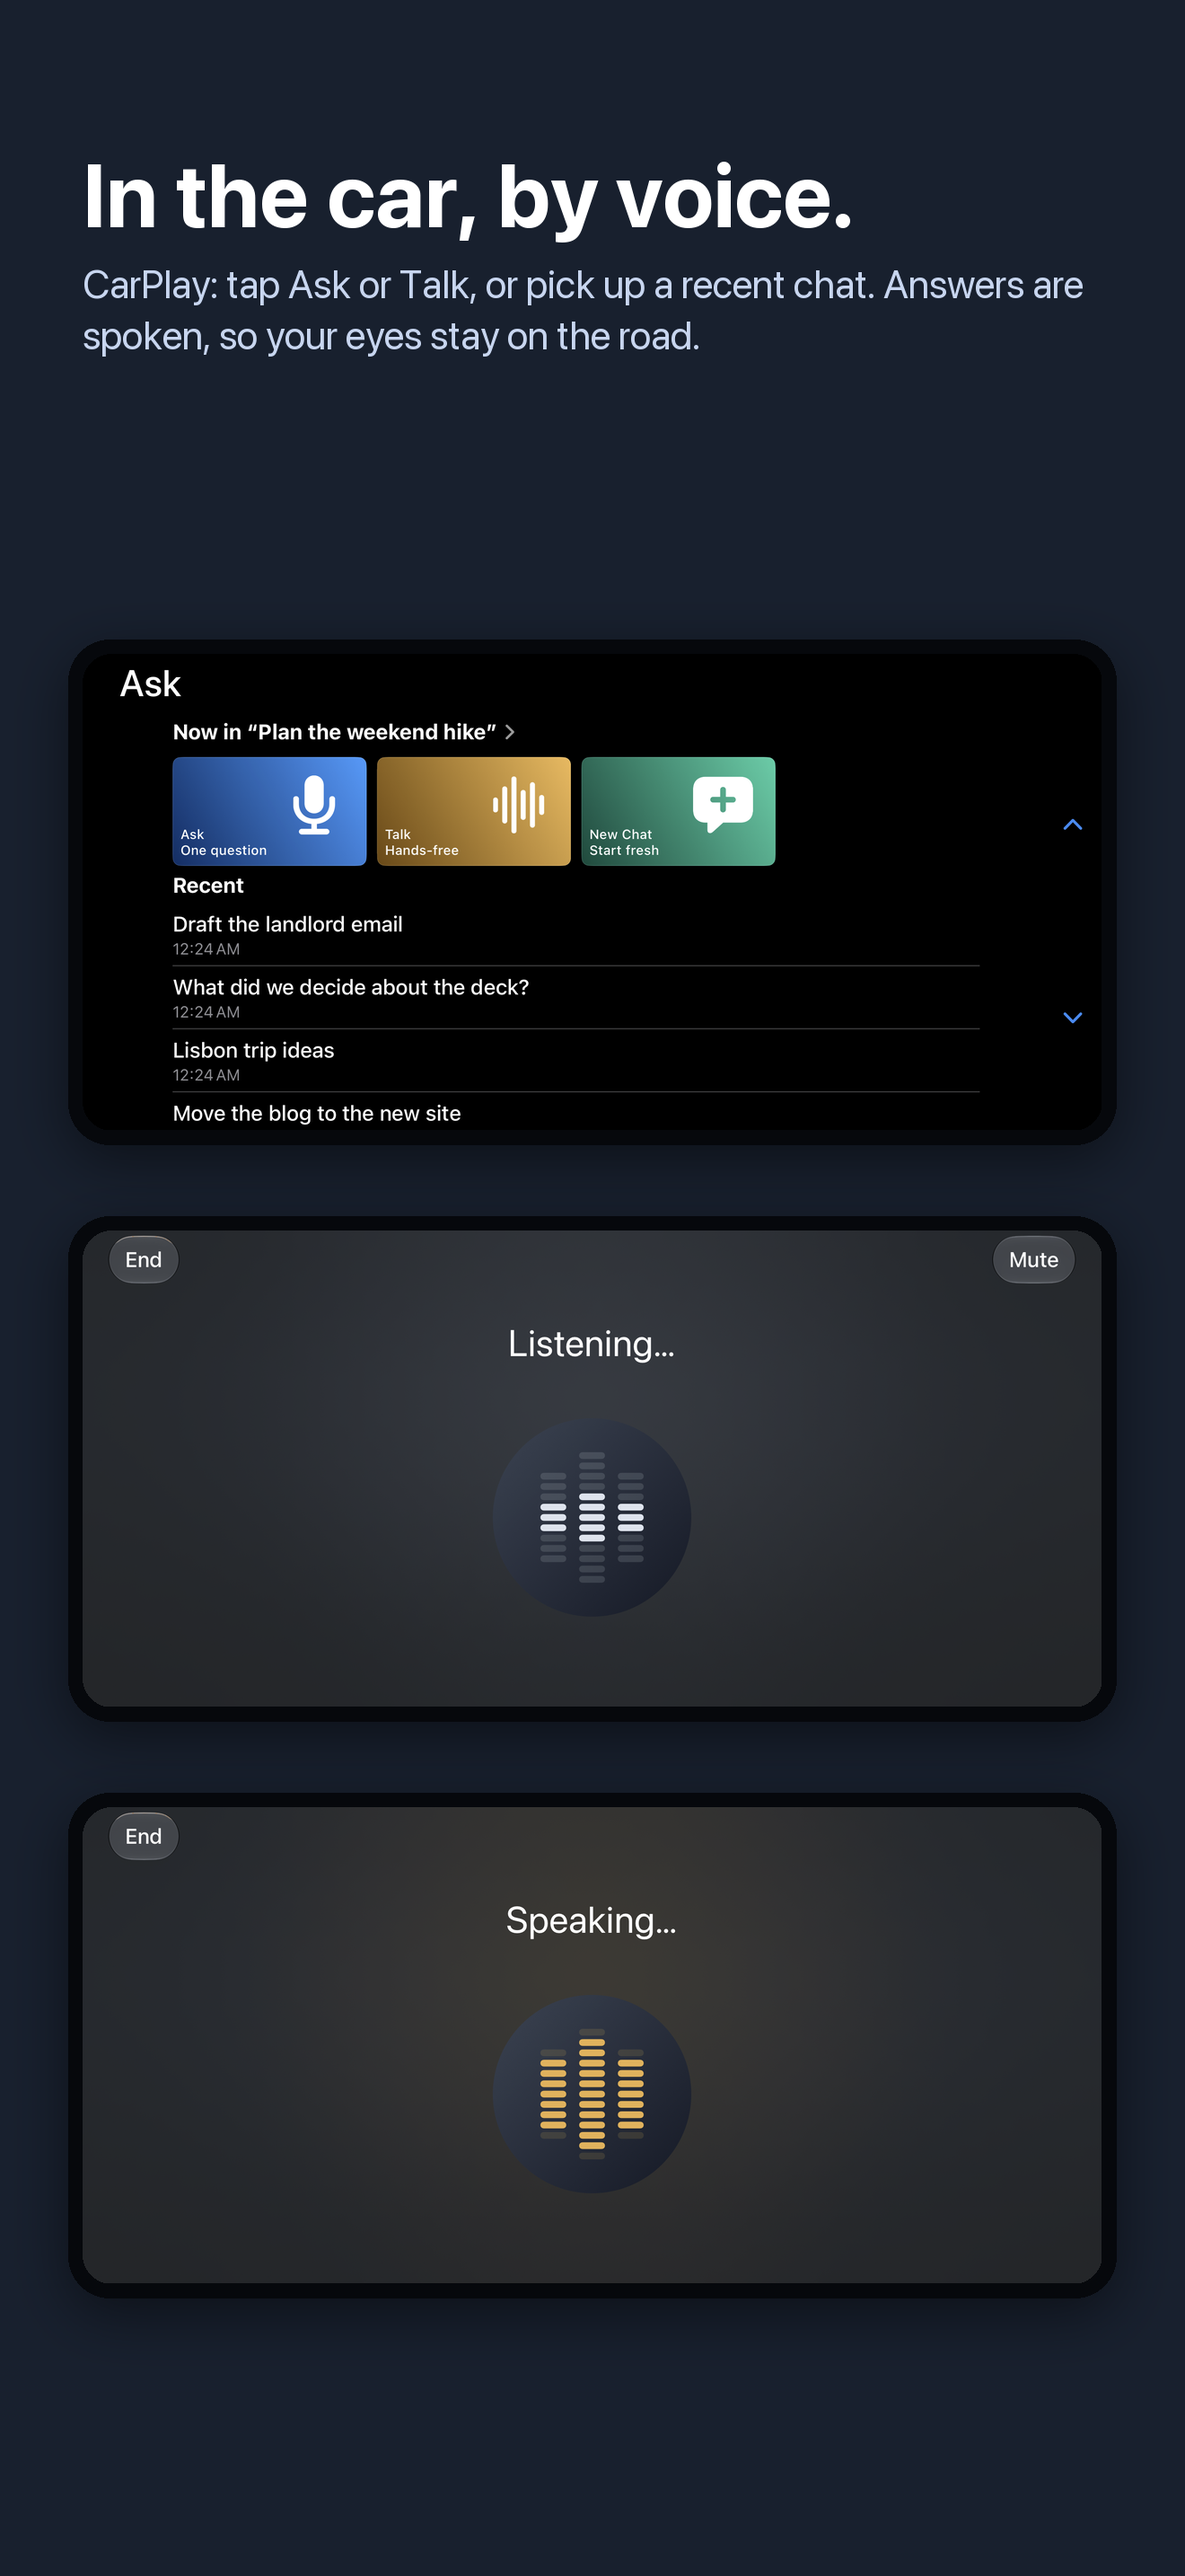
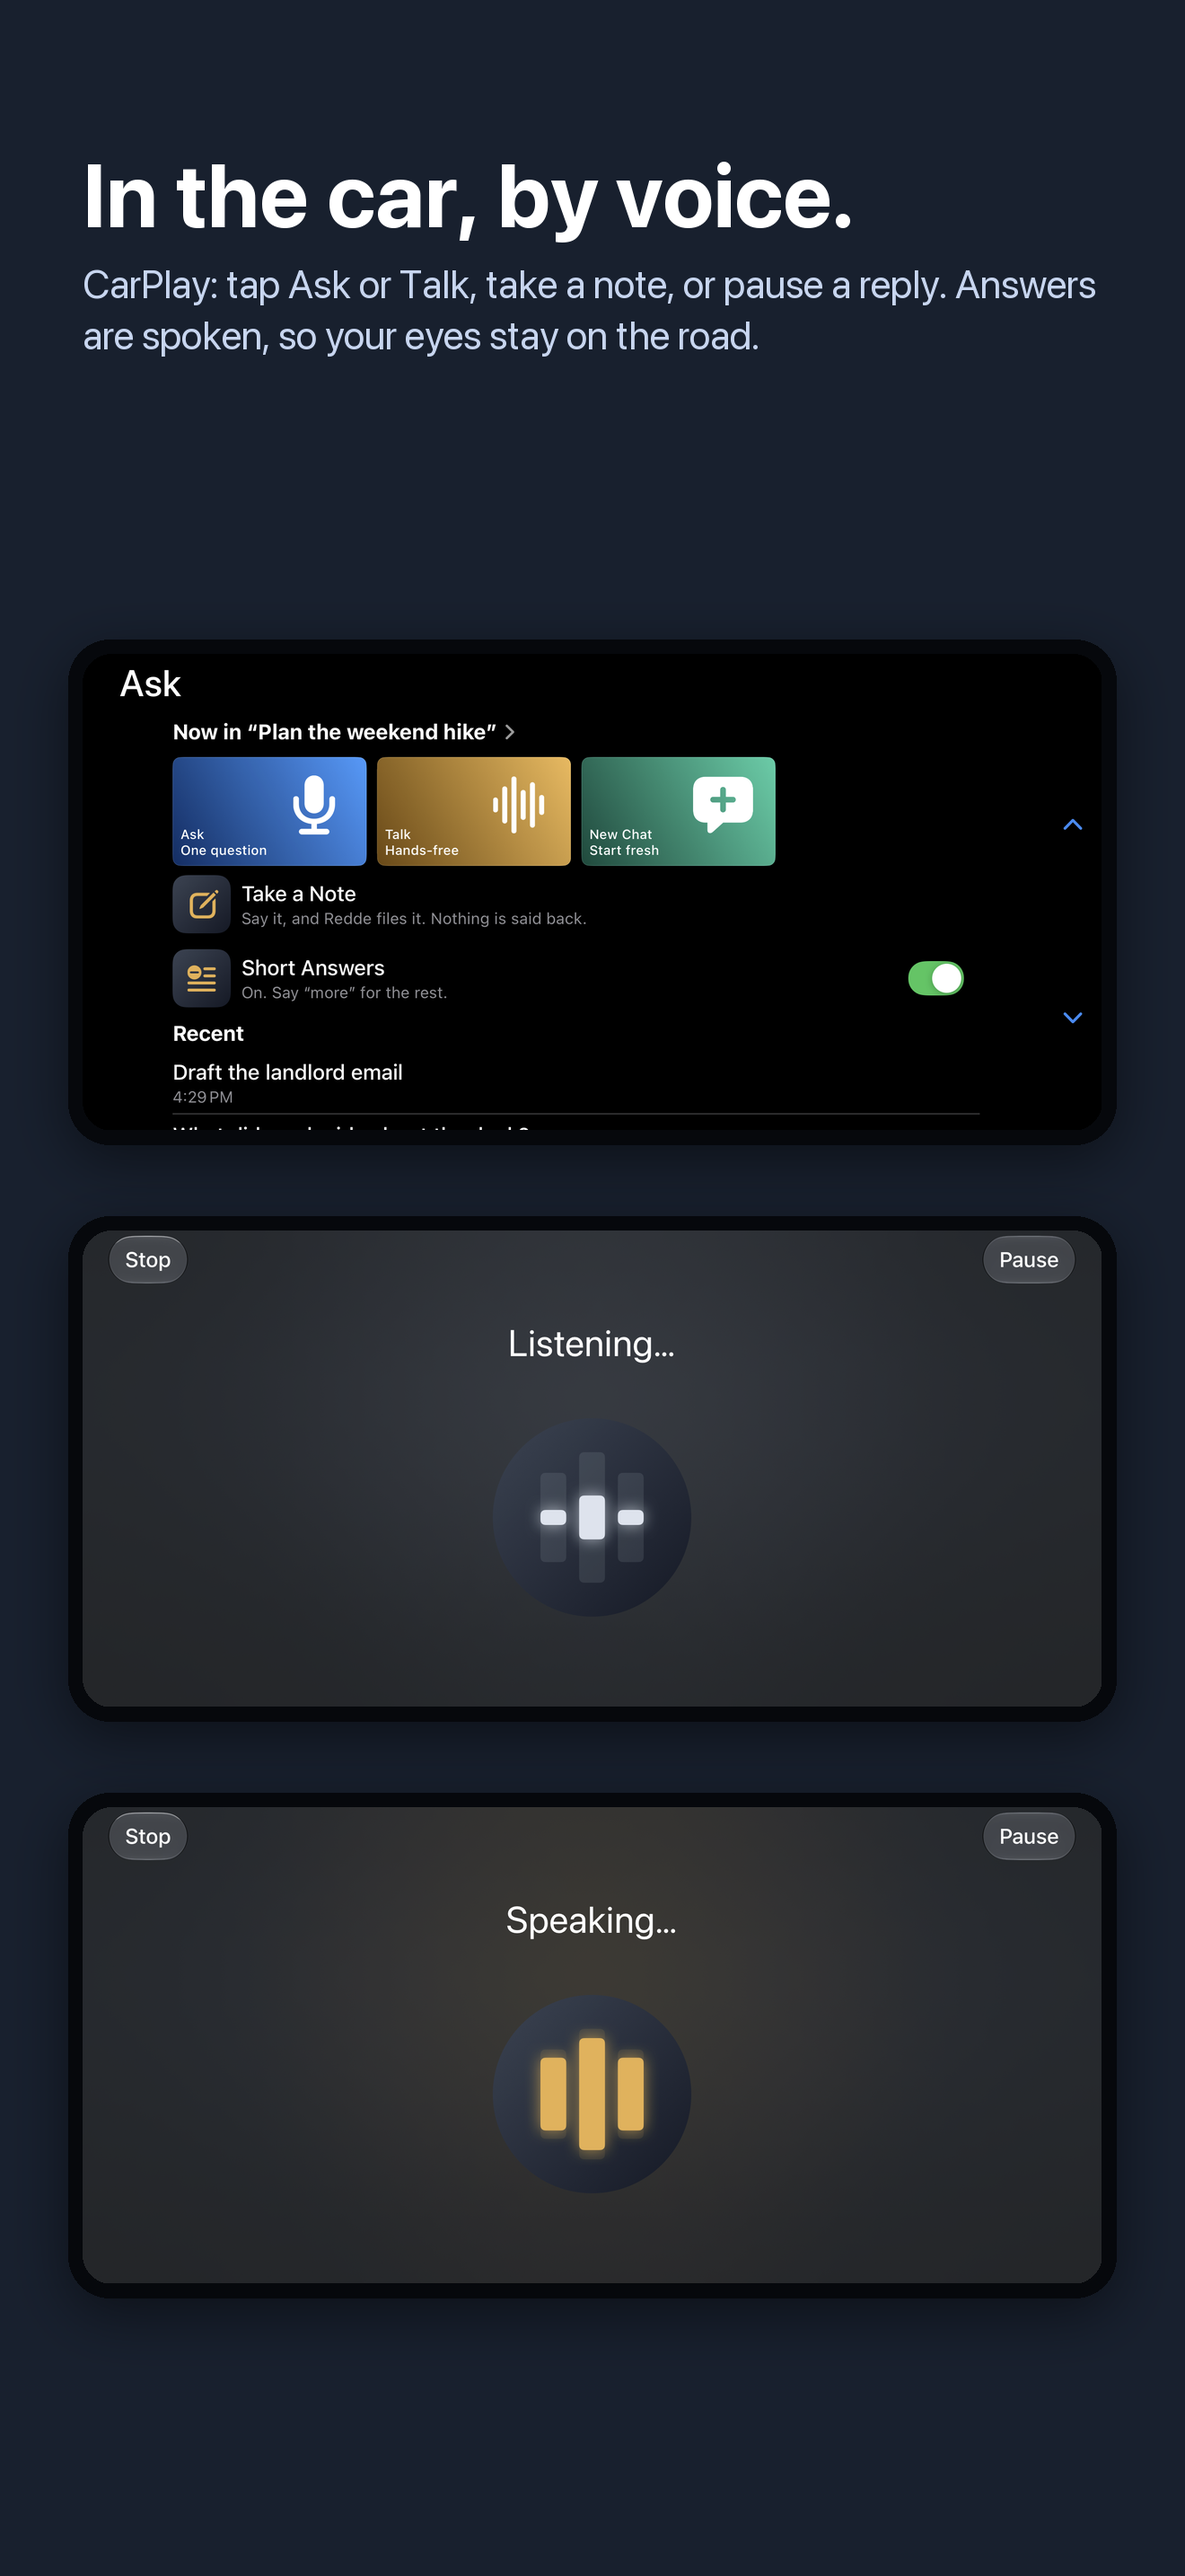
The CarPlay screenshot for 1.8
The Ask tab with Take a Note and Short Answers under the cards, and the
voice card in solid bars with Stop and Pause in its bar. The whole set
was taken again on the 1.8 build and nothing else had changed, so the
other pictures stay as they are.

diff --git a/design/screenshots/compose.py b/design/screenshots/compose.py
@@ -110,5 +110,5 @@ for src, name, h, s, bg, fg, sfg in phone: compose(f'{SHOTS}/{src}.png', f'{OUT}
 for src, name, h, s, bg, fg, sfg in pad:   compose(f'{SHOTS}/{src}.png', f'{OUT}/ipad-13/{name}.png',   h, s, bg, fg, sfg, True)
 # iPhone only: CarPlay runs from the phone.
 compose_car([f'{SHOTS}/car-ask.png', f'{SHOTS}/car-voice.png', f'{SHOTS}/car-speaking.png'], f'{OUT}/iphone-6.9/07-car.png',
-            'In the car, by voice.', 'CarPlay: tap Ask or Talk, or pick up a recent chat. Answers are spoken, so your eyes stay on the road.',
+            'In the car, by voice.', 'CarPlay: tap Ask or Talk, take a note, or pause a reply. Answers are spoken, so your eyes stay on the road.',
             (24, 32, 46), WHITE, MIST)

diff --git a/design/screenshots/README.md b/design/screenshots/README.md
@@ -4,7 +4,7 @@
 
 Regenerate: `design/screenshots/capture.sh <raw-shots-dir>` builds the Debug app and captures every raw shot on the iPhone 18 Pro Max and iPad Pro 13-inch simulators with the dev flags (`-echo.demo`, `-echo.demoShort`, `-echo.demoTwo`, `-echo.demoLibrary`, `-echo.voiceView`, `-echo.voiceDemo` (voice mode posed mid-listen), `-echo.expandAppIcons` (Settings' App icon grid open), `-voiceOrb <name>`, `-echo.screen settings|sessions|setup`, `-echo.demoHosts` (example endpoints, never personal ones), `-theme <standard|paper|slate|terminal|amber|githubDark|claudeCode>`, `-transport chatCompletions`, `-setupDone YES`) and a 9:41 status bar; then run `/usr/bin/python3 compose.py <raw-shots-dir> design/screenshots` (the system Python has Pillow).
 
-The set for 1.7 was taken on 2026-10-10 the same way; it adds three slots for what the version brought: `07-car` (iPhone only), `08-server` / `07-ipad-server` (Settings → Gateway on sample data, `-echo.demoGateway -echo.screen gateway`) and `09-plan` / `08-ipad-plan` (the agent's task list, `-echo.demoTodos`). The set for 1.6 was taken on 2026-10-06 with `PHONE=<iPhone 18 Pro Max, iOS 27>` and `PAD=<iPad Pro 13-inch (M5), iPadOS 27>` (UDIDs: two iPads share the name). `ONLY=pad` or `ONLY=phone` in front of `capture.sh` retakes one device's shots into a folder that already holds the other's; composing again leaves the untouched set byte for byte as it was.
+For 1.8 the set was taken again on 2026-10-13 the same way and came out as it was, down to the date in the iPad's status bar, so only the CarPlay slot was replaced. The set for 1.7 was taken on 2026-10-10 the same way; it adds three slots for what the version brought: `07-car` (iPhone only), `08-server` / `07-ipad-server` (Settings → Gateway on sample data, `-echo.demoGateway -echo.screen gateway`) and `09-plan` / `08-ipad-plan` (the agent's task list, `-echo.demoTodos`). The set for 1.6 was taken on 2026-10-06 with `PHONE=<iPhone 18 Pro Max, iOS 27>` and `PAD=<iPad Pro 13-inch (M5), iPadOS 27>` (UDIDs: two iPads share the name). `ONLY=pad` or `ONLY=phone` in front of `capture.sh` retakes one device's shots into a folder that already holds the other's; composing again leaves the untouched set byte for byte as it was.
 
 ## Two-slot panorama
 
@@ -12,7 +12,7 @@ The set for 1.7 was taken on 2026-10-10 the same way; it adds three slots for wh
 
 ## CarPlay slot
 
-`07-car.png` shows three of the car's screens (the Ask tab, the voice card listening and speaking) stacked under its headline. They are not simulator screenshots: nothing here can open the CarPlay window. `capture.sh` has `scripts/carplay-preview.sh` draw them with CarPlay's own views at 770×360 points, the shape of a wide dashboard display, and `compose.py` (`compose_car`) sets them in bezels. The voice card's pictures are the ones that stand still (`REDDE_CARPLAY_STILL`), since a moving one is caught wherever its loop happens to be. The slot was drawn again on 2026-10-12 for 1.7.1's cards and voice card. What that preview leaves out (the car's status bar, the tab bar) is missing from the slot too.
+`07-car.png` shows three of the car's screens (the Ask tab, the voice card listening and speaking) stacked under its headline. They are not simulator screenshots: nothing here can open the CarPlay window. `capture.sh` has `scripts/carplay-preview.sh` draw them with CarPlay's own views at 770×360 points, the shape of a wide dashboard display, and `compose.py` (`compose_car`) sets them in bezels. The voice card's pictures are the ones that stand still (`REDDE_CARPLAY_STILL`), since a moving one is caught wherever its loop happens to be. The slot was drawn again on 2026-10-12 for 1.7.1's cards and voice card. And on 2026-10-13 for 1.8: the Ask tab with Take a Note and Short Answers (switched on) under the cards, and the voice card in solid bars with Stop and Pause in its bar. What that preview leaves out (the car's status bar, the tab bar) is missing from the slot too.
 
 ## Privacy slot
 
